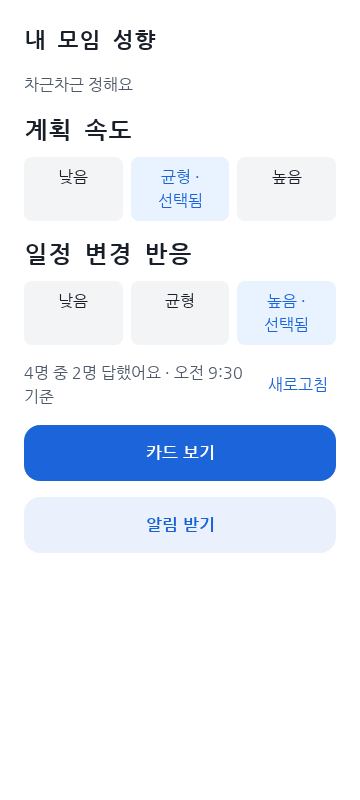
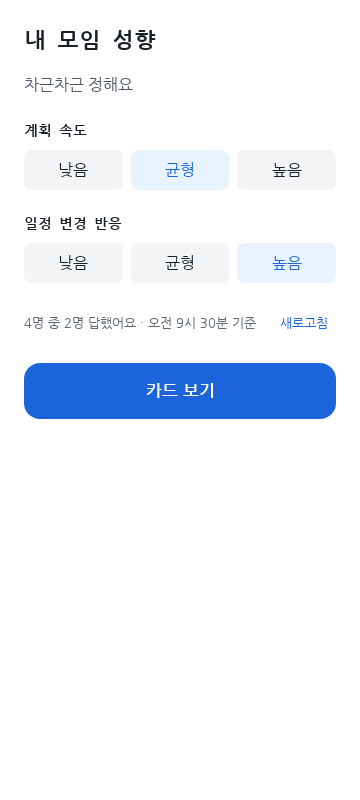
TASK-042: gate notifications and address result review

diff --git a/apps/web/src/Result.tsx b/apps/web/src/Result.tsx
@@ -2,7 +2,7 @@ import React from 'react';
 import { Button } from '@toss/tds-mobile';
 import { ApiError, formatAsOf, onVisible } from './api';
 import { entryContext } from './entry-context';
-import { requestAgreement, withConsent } from './notification';
+import { isNotificationConfigured, requestAgreement, withConsent } from './notification';
 import { navigate } from './routes';
 import { roomContext, type Profile } from './room-context';
 import { authCode, client, refreshSession, sessionState } from './session';
@@ -70,12 +70,12 @@ export function Result() {
     }
   }
   if (permission) return <main className="entry"><section className="entry-content"><h1>지금은 쓸 수 없어요</h1></section></main>;
-  if (missing) return <main className="create"><h1>이 방은 없거나 보관 기간이 지났어요</h1><Button display="block" onClick={() => navigate('/rooms/new')}>방 만들기</Button></main>;
-  return <main className="create"><h1>{roomContext.nicknameRoom === code && roomContext.nickname ? `${roomContext.nickname} 님의 모임 성향` : '내 모임 성향'}</h1>{alreadySubmitted && <p role="status">이미 답했어요</p>}
+  if (missing) return <main className="create">{room?.status === 'closed' && <div className="room-notice"><p>방이 마감됐어요</p></div>}<h1>이 방은 없거나 보관 기간이 지났어요</h1><Button display="block" onClick={() => navigate('/rooms/new')}>방 만들기</Button></main>;
+  return <main className="create">{room?.status === 'closed' && <div className="room-notice"><p>방이 마감됐어요</p></div>}<h1>{roomContext.nicknameRoom === code && roomContext.nickname ? `${roomContext.nickname} 님의 모임 성향` : '내 모임 성향'}</h1>{alreadySubmitted && <p role="status">이미 답했어요</p>}
     {error !== undefined && <div role="alert"><p>잠시 뒤 다시 해 주세요</p>{error && <p>오류 번호 {error}</p>}<button className="link-button" onClick={() => void load()}>다시 시도</button></div>}
     {!profile && loading && <div className="skeletons" role="status"><span /><span /><span /><span className="sr-only">불러오고 있어요</span></div>}
-    {profile && <><p>{profile.summary}</p>{profile.axes.map(axis => <section key={axis.axis}><h2>{labels[axis.axis]}</h2><div className="axis">{(['low', 'balanced', 'high'] as const).map((band, i) => <span className={axis.band === band ? 'axis-selected' : ''} key={band}>{['낮음', '균형', '높음'][i]}{axis.band === band ? ' · 선택됨' : ''}</span>)}</div></section>)}</>}
-    {room && <>{room.status === 'closed' && <p>방이 마감됐어요</p>}<div className="as-of"><span>{room.partySize}명 중 {room.submittedCount}명 답했어요 · {formatAsOf(room.asOf)}{refreshing && <> · 다시 불러오는 중 <span aria-hidden="true" className="refresh-spinner" /></>}</span>{!refreshing && <button className="link-button" onClick={() => void load()}>새로고침</button>}</div><Button display="block" onClick={() => navigate(room.status === 'closed' ? '/room/final' : '/room/card')}>카드 보기</Button>
-    {room.status === 'open' && <>{notify === 'done' || notify === 'already' ? <p>{notify === 'already' ? '이미 알림을 신청했어요' : '알림을 신청했어요. 친구가 답을 마치면 알려 드려요'}</p> : <Button display="block" variant="weak" loading={notify === 'loading'} disabled={notify === 'loading' || seconds > 0} onClick={() => void subscribe()}>알림 받기</Button>}{notify === 'update' && <p>토스 앱을 업데이트하면 알림을 받을 수 있어요</p>}{notify === 'error' && <div role="alert"><p>알림을 신청하지 못했어요</p><button className="link-button" disabled={seconds > 0} onClick={() => void subscribe()}>{seconds ? `다시 시도 (${seconds}초)` : '다시 시도'}</button></div>}</>}</>}
+    {profile && <><p>{profile.summary}</p>{profile.axes.map(axis => <section className="profile-axis" key={axis.axis}><h2>{labels[axis.axis]}</h2><div className="axis" role="group" aria-label={`${labels[axis.axis]}: ${{ low: '낮음', balanced: '균형', high: '높음' }[axis.band]}`} >{(['low', 'balanced', 'high'] as const).map((band, i) => <span className={axis.band === band ? 'axis-selected' : ''} key={band}>{['낮음', '균형', '높음'][i]}</span>)}</div></section>)}</>}
+    {room && <><div className="as-of"><span>{room.partySize}명 중 {room.submittedCount}명 답했어요 · {formatAsOf(room.asOf)}{refreshing && <> · 다시 불러오는 중 <span aria-hidden="true" className="refresh-spinner" /></>}</span>{!refreshing && <button className="link-button" onClick={() => void load()}>새로고침</button>}</div><Button display="block" onClick={() => navigate(room.status === 'closed' ? '/room/final' : '/room/card')}>{room.status === 'closed' ? '최종 카드 보기' : '카드 보기'}</Button>
+    {room.status === 'open' && isNotificationConfigured() && <>{notify === 'done' || notify === 'already' ? <div className="room-notice"><p>{notify === 'already' ? '이미 알림을 신청했어요' : '알림을 신청했어요. 친구가 답을 마치면 알려 드려요'}</p></div> : <Button display="block" variant="weak" loading={notify === 'loading'} disabled={notify === 'loading' || seconds > 0} onClick={() => void subscribe()}>알림 받기</Button>}{notify === 'update' && <p>토스 앱을 업데이트하면 알림을 받을 수 있어요</p>}{notify === 'error' && <div role="alert"><p>알림을 신청하지 못했어요</p><button className="link-button" disabled={seconds > 0} onClick={() => void subscribe()}>{seconds ? `다시 시도 (${seconds}초)` : '다시 시도'}</button></div>}</>}</>}
   </main>;
 }

diff --git a/apps/web/e2e/result-prism.spec.ts b/apps/web/e2e/result-prism.spec.ts
@@ -19,7 +19,7 @@ async function prism(page: Page, endpoint: string, choices: Selection[]) {
 }
 async function enter(page: Page) { await page.goto('/room/result?room=ABCDEFGH23'); }
 async function mockSdk(page: Page) {
-  await page.route('**/src/notification.ts*', route => route.fulfill({ contentType: 'application/javascript', body: "export async function requestAgreement() { return 'newAgreement'; } export async function withConsent(result, callback) { return callback(); }" }));
+  await page.route('**/src/notification.ts*', route => route.fulfill({ contentType: 'application/javascript', body: "export function isNotificationConfigured() { return true; } export async function requestAgreement() { return 'newAgreement'; } export async function withConsent(result, callback) { return callback(); }" }));
   await page.route('**/src/session.ts*', route => route.fulfill({ contentType: 'application/javascript', body: `import { ApiClient } from '/src/api.ts';
     let count = 0; export const sessionState = { reauthenticationFailed: false };
     export async function authCode() { return String(++count).padStart(32, '0'); }
@@ -29,7 +29,7 @@ async function mockSdk(page: Page) {
 test('Prism 성향과 응답 현황을 표시한다', async ({ page }) => {
   await prism(page, '/my-profile', [{ code: 200, example: 'two-axes' }]); await prism(page, '', [{ code: 200, example: 'open-host' }]); await enter(page);
   await expect(page.locator('.axis')).toHaveCount(2); await expect(page.getByText(/4명 중 3명 답했어요/)).toBeVisible();
-  await expect(page.getByRole('button', { name: '카드 보기' })).toBeVisible(); await expect(page.getByRole('button', { name: '알림 받기' })).toBeVisible();
+  await expect(page.getByRole('button', { name: '카드 보기' })).toBeVisible(); await expect(page.getByRole('button', { name: '알림 받기' })).toHaveCount(0);
 });
 test('응답 현황 오류에도 불러온 성향을 유지하고 재시도한다', async ({ page }) => {
   await prism(page, '/my-profile', [{ code: 200, example: 'two-axes' }]); await prism(page, '', [{ code: 500 }, { code: 200, example: 'open-host' }]); await enter(page);
@@ -44,7 +44,7 @@ test('결과 새로고침 중에는 이전 현황과 진행 상태를 함께 표
 test('마감된 방에서는 알림을 표시하지 않고 최종 카드로 간다', async ({ page }) => {
   await prism(page, '/my-profile', [{ code: 200, example: 'three-axes' }]); await prism(page, '', [{ code: 200, example: 'closed' }]); await enter(page);
   await expect(page.getByText('방이 마감됐어요')).toBeVisible(); await expect(page.getByRole('button', { name: '알림 받기' })).toHaveCount(0);
-  await page.getByRole('button', { name: '카드 보기' }).click(); await expect(page).toHaveURL(/\/room\/final$/);
+  await page.getByRole('button', { name: '최종 카드 보기' }).click(); await expect(page).toHaveURL(/\/room\/final$/);
 });
 for (const [code, example, heading] of [[403, 'origin-not-allowed', '지금은 쓸 수 없어요'], [404, 'room-not-found', '이 방은 없거나 보관 기간이 지났어요']] as const) test(`성향 ${code} 안내`, async ({ page }) => {
   await prism(page, '/my-profile', [{ code, example }]); await prism(page, '', [{ code: 200, example: 'open-host' }]); await enter(page);

diff --git a/apps/web/e2e/result.spec.ts b/apps/web/e2e/result.spec.ts
@@ -10,9 +10,10 @@ test('결과를 표시하고 템플릿 미설정 시 신청하지 않는다', as
   });
   await page.goto('/room/result?room=ABCDEFGH23');
   await expect(page.getByText('차근차근 정해요')).toBeVisible();
-  await expect(page.getByText('균형 · 선택됨')).toBeVisible();
+  await expect(page.getByRole('group', { name: '계획 속도: 균형' })).toBeVisible();
+  const sizes = await page.evaluate(() => ({ title: parseFloat(getComputedStyle(document.querySelector('h1')!).fontSize), axis: parseFloat(getComputedStyle(document.querySelector('.profile-axis h2')!).fontSize) }));
+  expect(sizes.axis).toBeLessThan(sizes.title);
   if (process.env.CAPTURE_RESULT) await page.screenshot({ path: '../../docs/10-wbs/captures/task-042.png', fullPage: true });
-  await page.getByRole('button', { name: '알림 받기' }).click();
-  await expect(page.getByText('알림을 신청하지 못했어요')).toBeVisible();
+  await expect(page.getByRole('button', { name: '알림 받기' })).toHaveCount(0);
   expect(subscriptions).toBe(0);
 });

diff --git a/apps/web/src/notification.test.ts b/apps/web/src/notification.test.ts
@@ -4,8 +4,14 @@ const sdk = vi.hoisted(() => {
   return { request };
 });
 vi.mock('@apps-in-toss/web-framework', () => ({ Notification: { requestAgreement: sdk.request } }));
-import { requestAgreement, withConsent } from './notification';
+import { isNotificationConfigured, requestAgreement, withConsent } from './notification';
 beforeEach(() => { vi.clearAllMocks(); });
+it('템플릿이 없거나 공백이면 알림 버튼을 숨긴다', () => {
+  vi.stubEnv('VITE_NOTIFICATION_TEMPLATE_CODE', ''); expect(isNotificationConfigured()).toBe(false);
+  vi.stubEnv('VITE_NOTIFICATION_TEMPLATE_CODE', '   '); expect(isNotificationConfigured()).toBe(false);
+  vi.stubEnv('VITE_NOTIFICATION_TEMPLATE_CODE', 'example-template'); expect(isNotificationConfigured()).toBe(true);
+  vi.unstubAllEnvs();
+});
 it('미지원 버전은 동의 창과 신청을 부르지 않는다', async () => {
   sdk.request.isSupported.mockReturnValue(false); const submit = vi.fn();
   expect(await withConsent(await requestAgreement('template'), submit)).toBe('unsupported');

diff --git a/apps/web/e2e/questions.spec.ts b/apps/web/e2e/questions.spec.ts
@@ -8,6 +8,7 @@ async function enter(page: Page, conversion = false) {
   await page.route('**/v1/rooms/**', route => {
     if (route.request().method() === 'OPTIONS') return route.fulfill({ status: 204, headers: cors });
     if (route.request().method() === 'POST') return route.fulfill({ status: 201, headers: cors, json: { logConversion: conversion, roomStatus: 'open' } });
+    if (route.request().url().endsWith('/my-profile')) return route.fulfill({ headers: cors, json: { summary: '차근차근 정해요', axes: [{ axis: 'plan_speed', band: 'balanced' }] } });
     return route.fulfill({ headers: cors, json: route.request().url().endsWith('/questions') ? { questionSetVersion: 1, questions } : room });
   });
   await page.goto('/home'); await page.getByRole('button', { name: /제주 3박/ }).click();

diff --git a/apps/web/vite.config.ts b/apps/web/vite.config.ts
@@ -18,7 +18,9 @@ function provenance(): Plugin {
 }
 export default defineConfig(({ command, mode }) => {
   if (command === 'build') {
-    const api = loadEnv(mode, process.cwd(), 'VITE_').VITE_API_BASE_URL;
+    const env = loadEnv(mode, process.cwd(), 'VITE_');
+    const api = env.VITE_API_BASE_URL;
+    if (!env.VITE_NOTIFICATION_TEMPLATE_CODE?.trim()) process.stderr.write('Warning: VITE_NOTIFICATION_TEMPLATE_CODE is unset; notification button is hidden.\n');
     if (!api) throw new Error('VITE_API_BASE_URL is required for production builds');
     try { if (new URL(api).protocol !== 'https:') throw new Error('not HTTPS'); }
     catch { throw new Error('VITE_API_BASE_URL must be an HTTPS URL'); }

diff --git a/apps/web/src/notification.ts b/apps/web/src/notification.ts
@@ -1,4 +1,5 @@
 import { Notification } from '@apps-in-toss/web-framework';
+export function isNotificationConfigured(): boolean { return Boolean(import.meta.env.VITE_NOTIFICATION_TEMPLATE_CODE?.trim()); }
 export type Agreement = 'newAgreement' | 'alreadyAgreed' | 'agreementRejected';
 export function requestAgreement(templateCode: string): Promise<Agreement | 'unsupported'> {
   if (!Notification.requestAgreement.isSupported()) return Promise.resolve('unsupported');

diff --git a/apps/web/src/style.css b/apps/web/src/style.css
@@ -91,3 +91,5 @@ div[role="alert"] h2 { font-size: var(--font-size-heading); margin: 0; }
 .axis { display: flex; gap: var(--space-2); }
 .axis span { flex: 1; text-align: center; background: var(--color-bg-subtle); padding: var(--space-2); border-radius: var(--radius-chip); }
 .axis .axis-selected { background: var(--color-accent-subtle); color: var(--color-accent-on-subtle); }
+
+.profile-axis h2 { font-size: var(--font-size-small); margin: var(--space-2) 0; }

diff --git a/scripts/test_web_build_env.py b/scripts/test_web_build_env.py
@@ -14,5 +14,17 @@ class WebBuildEnvironmentTest(unittest.TestCase):
                 self.assertNotEqual(result.returncode, 0)
                 self.assertIn(message, result.stderr + result.stdout)
 
+    def test_notification_template_warning_does_not_block_build(self):
+        for template in [None, 'example-template']:
+            with self.subTest(template=template):
+                env = os.environ.copy()
+                env['VITE_API_BASE_URL'] = 'https://example.invalid'
+                env.pop('VITE_NOTIFICATION_TEMPLATE_CODE', None)
+                if template:
+                    env['VITE_NOTIFICATION_TEMPLATE_CODE'] = template
+                result = subprocess.run(['pnpm', '--filter', '@moim-card/apps-web', 'exec', 'vite', 'build'], env=env, capture_output=True, text=True)
+                self.assertEqual(result.returncode, 0, result.stderr)
+                self.assertEqual('VITE_NOTIFICATION_TEMPLATE_CODE is unset' in (result.stderr + result.stdout), template is None)
+
 if __name__ == '__main__':
     unittest.main()

diff --git a/docs/records/decisions.md b/docs/records/decisions.md
@@ -39,6 +39,7 @@
 | DEC-035 | 2026-11-28 | 09 목업 체크포인트를 통과해요(최종 확인 질문 1 추천안 1). 목업(A 바탕 + 합의 카드만 B 모양, 화면 15개·상태 70개, `design/mockups/mockup.html`, PR #10 커밋 `e03ce6f`)을 확정하고, 디자인 토큰 `design/base.tokens.json`을 고정해요. 바꾸려면 새 결정이 필요해요. PR #10 병합은 승인됐고 병합은 토링이가 해요. 실제 토스 WebView·TDS 렌더, 스크린 리더 읽는 순서, 키보드 Tab 순서·포커스는 목업에서 재지 않았고 개발 단계(11·12)에서 확인해요. 09는 원래 사용자님이 직접 보는 단계(DEC-014의 위임 밖)였고, 이번 통과는 사용자님의 주말 위임으로 오랑이가 답했어요. | 오랑이(사용자님 주말 위임) | 오랑이: "09 목업 확정(A 바탕 + 합의 카드 B 모양), 토큰 고정, PR #10 병합 승인. 실제 토스 WebView·스크린 리더·키보드 순서는 개발 단계 확인 항목". 위임 근거: 사용자님 주말 위임 "너가 다른애들 승인을 하던 말던 해라" | 토링이가 전달한 오랑이 답(2026-11-28, Orca 작업 task_3aeb4fbf9b22). 오랑이 답과 위임 원문은 토링이가 전한 그대로이고, 위임 원문이 나온 항목 번호는 받지 못했어요 | none | 09-mockup, `design/base.tokens.json`, `design/mockups/mockup.html`, DEC-032 | in force |
 | DEC-070 | 2026-11-28 | SPEC-035 라이트 모드 요구사항은 유지하고 TASK-002 검사는 TDS 전용 청크의 출처·해시를 검증한 뒤 그 청크의 다크 모드 감지 코드만 예외로 둬요. 앱 소스와 앱 청크는 기존처럼 검사하고, 어두운 기기 설정의 배경·글자·버튼 색을 브라우저에서 검증해요. | 토링이 | "SPEC-035 라이트 모드만은 그대로고 검사 방법만 바꾸는 거라 괜찮아" | Orca 답변 msg_70053375ac6e, 2026-11-28 | none | SPEC-035, TASK-002, TASK-035 | in force |
 | DEC-071 | 2026-11-28 | SPEC-018의 금지는 앱이 `params`에 방 코드·사용자 ID를 넣지 않는다는 뜻이고, SDK가 자동 추가하는 `anonymous_key`는 토스 분석에만 전송하며 금지 대상이 아니에요. SCR-015의 통계 문구는 U-5와 함께 월요일 사용자님 화면 확인을 기다려요. | 토링이 | "앱이 파라미터에 방 코드·사용자 ID를 넣지 않는다"; "SDK가 토스 분석에 자동으로 붙이는 anonymous_key는 우리 서버로 오지 않고 토스 플랫폼의 대표 전환 집계에 쓰이는 값이라 금지 대상이 아니라고 정해" | Orca 답변 msg_1f10c03122b4, 2026-11-28; SDK `@apps-in-toss/web-framework` 3.11.0 `dist/index.d.ts` 783~790행 | none | SPEC-018, SCR-007, SCR-015, TASK-041, TASK-049, U-5 | in force; SCR-015 문구는 사용자님 확인 대기 |
+| DEC-072 | 2026-11-28 | 알림 템플릿 코드가 없는 운영 빌드는 막지 않고 빌드 로그에 경고해요. 코드가 없으면 결과 화면의 알림 받기 버튼을 숨겨 U-3 템플릿 검수 전에도 출시할 수 있어요. | 토링이 | "VITE_NOTIFICATION_TEMPLATE_CODE가 없는 운영 빌드는 빌드를 막지 않고 [알림 받기] 버튼을 숨겨(U-3 템플릿 검수 전에도 출시 가능하게), 빌드 로그에 경고" | Orca 전달 msg_73e3bb5ac9b1, 2026-11-28 | none | TASK-042, TASK-051, U-3 | in force |
 | DEC-036 | 2026-11-28 | 10 WBS 초안에서 AI가 정한 것을 제안해요: B-1~B-10([wbs.md 5절](../10-wbs/wbs.md#5-ai가-정한-것-b-1b-10)). 예: pnpm workspace(`apps/web`, `apps/api`, `packages/shared`, `content/question-sets/`), 화면 Vite + React(CSR)와 TDS·SDK 3.x(3.6.0 이상), 서버 Workers + Hono, 테스트 Vitest·Schemathesis·Playwright + axe, 토스 API는 가짜 서버로 먼저, 크기 S·M·L, TASK 하나가 PR 하나, 비밀 값은 저장소 밖, 문항 세트의 사람 확인은 운영 배포(U-7) 때 사용자님. 10 단계의 human view는 NEXUS의 TASK 목록, 원본은 `docs/10-wbs/wbs.md`(`truth: source`). | AI(체크포인트 전 초안) | none | [checkpoint-10.md](../10-wbs/checkpoint-10.md) | none | none | TASK-001~054, `.corthex/project.json` 10-wbs | in force. 10 질문 1(DEC-037) 승인으로 함께 승인됐어요 |
 | DEC-037 | 2026-11-28 | 10 WBS 질문 1을 추천안 1로 정해요. 개발 계획 TASK-001~054(PR #11 커밋 `b5302a8`)를 그대로 승인하고, 페이즈 0(TASK-001~012)부터 Codex 작업자(gpt-6.1-terra xhigh)가 시작해요. AI가 정한 B-1~B-10(DEC-036)도 함께 승인돼요. | 오랑이(사용자님 주말 위임) | 오랑이: "질문 1 추천안 승인(TASK-001~054 그대로, 페이즈 0부터 Codex 작업자 gpt-6.1-terra xhigh)". 위임 근거: 사용자님 주말 위임 "너가 다른애들 승인을 하던 말던 해라" | 토링이가 전달한 오랑이 답(2026-11-28, Orca 작업 task_402f3ad9d599). 오랑이 답의 원문은 받지 못해 토링이가 전한 요약으로 적었어요 | none | TASK-001~054, B-1~B-10, [checkpoint-10.md](../10-wbs/checkpoint-10.md) 질문 1, `.corthex/stages.json` 10-wbs | in force |
 | DEC-038 | 2026-11-28 | 10 WBS 질문 2를 정해요. 제품명(appName, U-1)과 토스 콘솔 앱 등록(U-2)은 월요일(2026-11-30) 이후 페이즈 0 진행과 함께 사용자님께 여쭤요(추천안 1의 "페이즈 0과 함께"에 시점을 월요일 이후로 정함). 콘솔 앱 등록은 본인인증이 걸리는 단계만 사용자님께 여쭤요. 제품명은 후보 2~3개와 추천 하나로 드려요. | 오랑이(사용자님 주말 위임) | 오랑이: "질문 2 제품명·콘솔 앱 등록은 월요일 이후 페이즈 0 진행과 함께 사용자님께(본인인증이 걸리면 그것만 사용자님), 제품명은 후보 2~3개+추천 하나로". 위임 근거: 사용자님 주말 위임 "너가 다른애들 승인을 하던 말던 해라" | 토링이가 전달한 오랑이 답(2026-11-28, Orca 작업 task_402f3ad9d599). 오랑이 답의 원문은 받지 못해 토링이가 전한 요약으로 적었어요 | none | U-1, U-2, [wbs.md](../10-wbs/wbs.md) 3절, [checkpoint-10.md](../10-wbs/checkpoint-10.md) 질문 2 | in force |

diff --git a/docs/10-wbs/wbs.md b/docs/10-wbs/wbs.md
@@ -79,7 +79,7 @@
 | TASK-048 | SCR-013 내 데이터 지우기 | 2 | SPEC-028, SPEC-029 | REQ-018, REQ-043, REQ-044, REQ-045, REQ-046, REQ-048 | SCR-013, API-014, API-015 | TASK-036 | Codex | M | SCR-013의 상태 7개(confirm, done 포함)가 목 서버 응답대로 보여요. done에서 [미니앱 닫기]와 [처음 화면으로]를 고르고, 기록을 바꿔 끼워 뒤로가기가 미니앱을 닫아요(DEC-029). | 할 일 |
 | TASK-049 | SCR-014·SCR-015 이용약관과 개인정보처리방침 | 2 | SPEC-033 | REQ-050 | SCR-014, SCR-015 | TASK-035 · 사용자님: U-5 | Codex | M | 번들 안 화면에 저장하는 것, 저장 위치(Cloudflare, 해외 리전), 보관 기간, 지우는 방법, 변경일이 있어요. 운영자 표기는 저장소 밖 값으로 빌드 때 넣고, 값이 없으면 운영 빌드가 실패해요(U-5). **미확인**: 해외 리전 저장에 국외 이전 동의가 필요한지(02 메모) — U-5 때 함께 봐요. | 할 일 |
 | TASK-050 | 스테이징 환경과 실제 토스 연결 | 3 | SPEC-002, SPEC-025, SPEC-038 | REQ-040, REQ-041, REQ-058, REQ-059, REQ-060, REQ-069, REQ-070, REQ-074 | Workers·D1 스테이징, 비밀 값(HMAC, AES, 세션), mTLS 인증서 바인딩 | TASK-034, TASK-014, TASK-015 · 사용자님: U-1, U-2 | Codex | M | `wrangler` 스테이징 배포 스크립트가 있고 비밀 값은 `wrangler secret`으로만 넣어요(저장소 0개). 허용 Origin이 appName의 두 주소, 실제 인증 코드 교환 1번 성공으로 **F-1 확인**, TASK-014에서 넘긴 스테이징 D1 세 테마 배포(DEC-042), 스테이징 대상 계약 테스트 통과예요. U-1·U-2를 기다려요. | 할 일 |
-| TASK-051 | 앱인토스 번들과 실제 서버 연결 | 3 | SPEC-035, SPEC-001 | REQ-039, REQ-042, REQ-057, REQ-064, REQ-065, REQ-066, REQ-068, REQ-073, REQ-075, REQ-076, REQ-077 | `.ait` 번들, SCR-001~SCR-015, API-001~API-016 | TASK-002, TASK-037, TASK-038, TASK-039, TASK-040, TASK-041, TASK-042, TASK-044, TASK-045, TASK-046, TASK-047, TASK-048, TASK-049, TASK-050 | Codex | M | 화면이 목 서버 대신 스테이징을 불러 operation 16개마다 accepted를 기록해요. 번들이 압축 해제 100MB 이하이고 TASK-002 검사를 통과해요. QR 테스트 점검표(TASK-053)를 만들어요. | 할 일 |
+| TASK-051 | 앱인토스 번들과 실제 서버 연결 | 3 | SPEC-035, SPEC-001 | REQ-039, REQ-042, REQ-057, REQ-064, REQ-065, REQ-066, REQ-068, REQ-073, REQ-075, REQ-076, REQ-077 | `.ait` 번들, SCR-001~SCR-015, API-001~API-016 | TASK-002, TASK-037, TASK-038, TASK-039, TASK-040, TASK-041, TASK-042, TASK-044, TASK-045, TASK-046, TASK-047, TASK-048, TASK-049, TASK-050 | Codex | M | 화면이 목 서버 대신 스테이징을 불러 operation 16개마다 accepted를 기록해요. 번들이 압축 해제 100MB 이하이고 TASK-002 검사를 통과해요. QR 테스트 점검표(TASK-053)를 만들어요. 알림 템플릿 코드가 없을 때 빌드 경고와 버튼 숨김을 확인하고, U-3 코드가 준비되면 다시 노출되는지 확인해요(DEC-072). | 할 일 |
 | TASK-052 | 접근성 자동 검사(브라우저) | 3 | SPEC-037 | REQ-072, REQ-081 | SCR-001~SCR-015, 상태 70개 | TASK-037, TASK-038, TASK-039, TASK-040, TASK-041, TASK-042, TASK-044, TASK-045, TASK-046, TASK-047, TASK-048, TASK-049 | Codex | M | Playwright + axe로 상태 70개를 360·430px에서 봐요: 글자 대비 4.5:1(꺼진 버튼 포함), 누르는 영역 44×44pt. **개발 단계 확인 2(스크린 리더 순서)**: 접근성 트리의 읽는 순서·이름 스냅샷(선택지, 진행 막대, 확인 창, 합의 카드의 분류와 수). **확인 3(키보드 Tab 순서)**: Tab 순서, 포커스 표시, 확인 창 안에 포커스가 머묾, 아래 고정 버튼에 포커스가 가려지지 않음. 기준 밖 0개예요. | 할 일 |
 | TASK-053 | 실기기 QR 확인(토스 앱) | 3 | SPEC-035, SPEC-036, SPEC-037, SPEC-001 | REQ-039, REQ-042, REQ-057, REQ-064, REQ-065, REQ-066, REQ-067, REQ-068, REQ-072, REQ-073, REQ-075, REQ-076, REQ-077, REQ-081 | 토스 앱 QR 테스트(Android, iOS), `intoss-private://` 테스트 스킴 | TASK-051, TASK-052 · 사용자님: U-3, U-6 | 사용자님 | M | **확인 1(토스 WebView·TDS 렌더)**: 버튼 모양, Toss Product Sans 글꼴, 카드 색이 카드 안에만, 좁은 폰·넓은 폰, 다크 모드 기기에서도 라이트. **확인 2**: VoiceOver·TalkBack이 TASK-052 스냅샷 순서대로 읽음. **확인 3**: 외부 키보드를 붙였을 때 Tab 순서(붙일 수 있는 기기에서). 초대 링크 진입 20번 첫 화면 P95 10초, 뒤로가기로 닫힘, 바텀시트 0번. 결과는 Codex가 점검표에 기록해요. QR 테스트는 토스 앱에 로그인한 만 19세 이상 워크스페이스 멤버만 할 수 있어 U-6이에요. | 할 일 |
 | TASK-054 | 서버 성능 측정 | 3 | SPEC-036 | REQ-067, REQ-068 | 스테이징, API-003, API-005, API-007, API-009 | TASK-050 | Codex | S | 동시 사용자 20명으로 방 만들기·입장·응답 제출·카드 열기가 모두 P95 2초 안이고, 도구·서버·커밋과 함께 기록돼요. | 할 일 |
